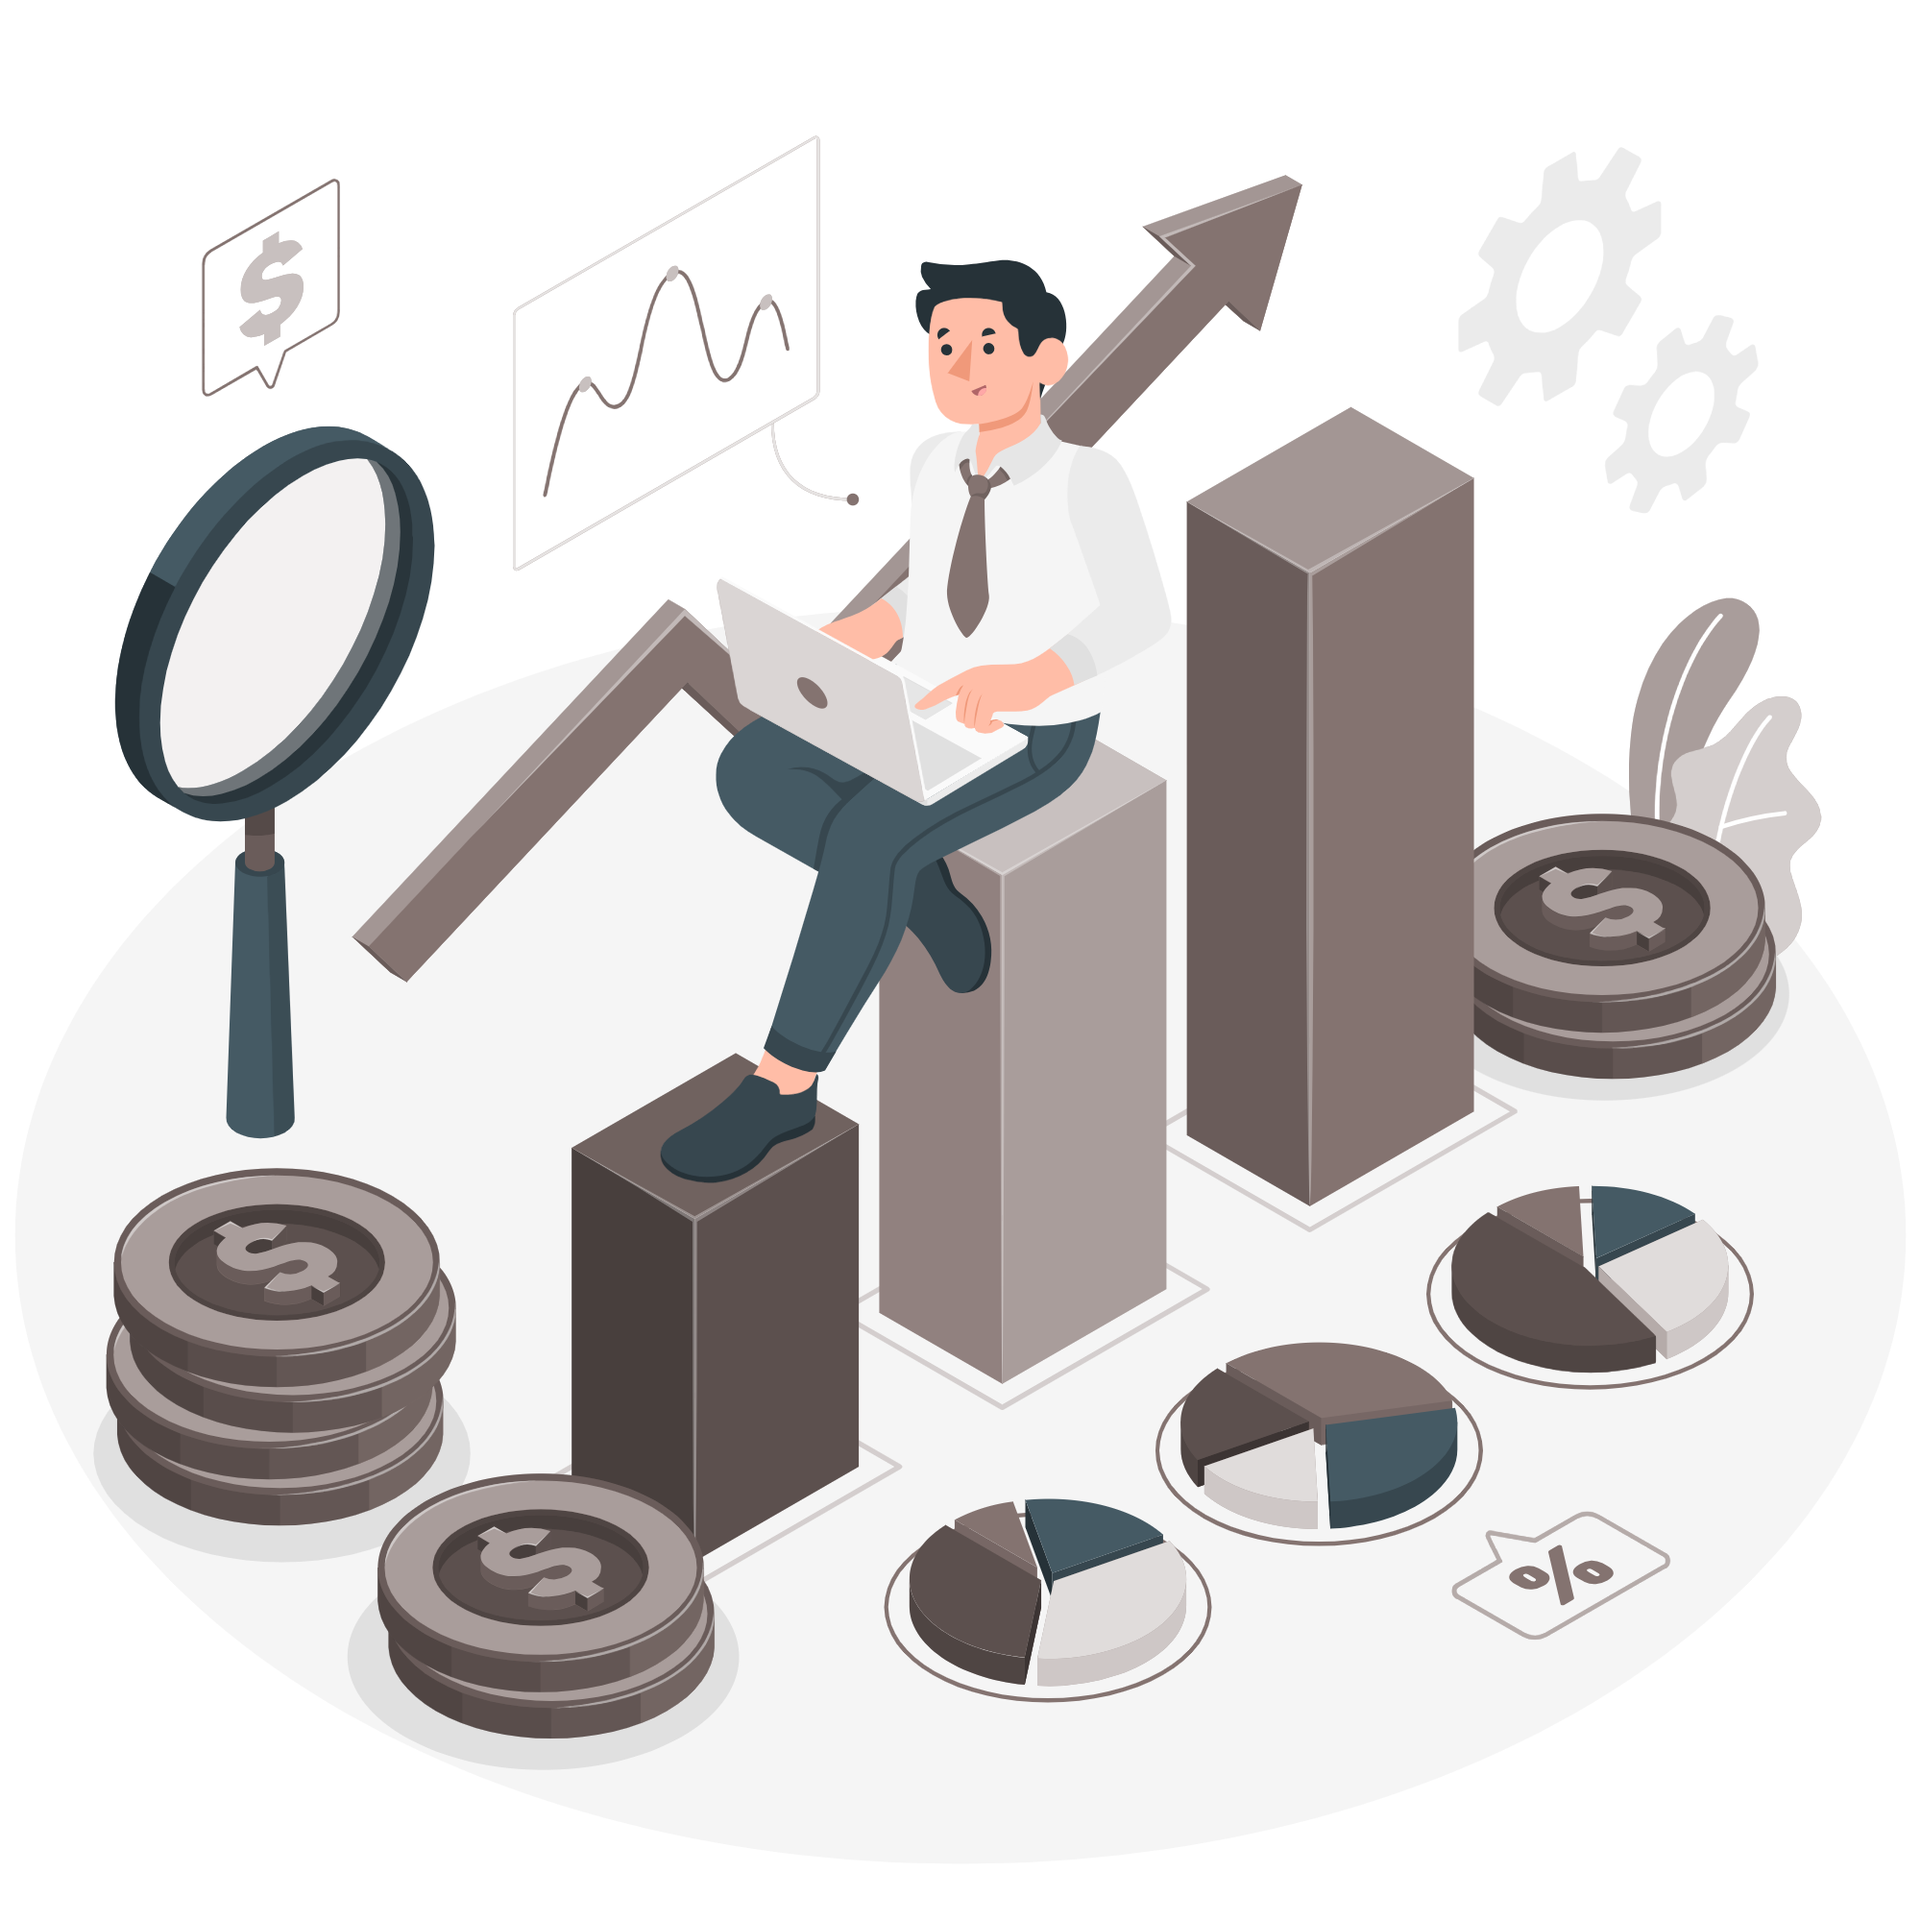
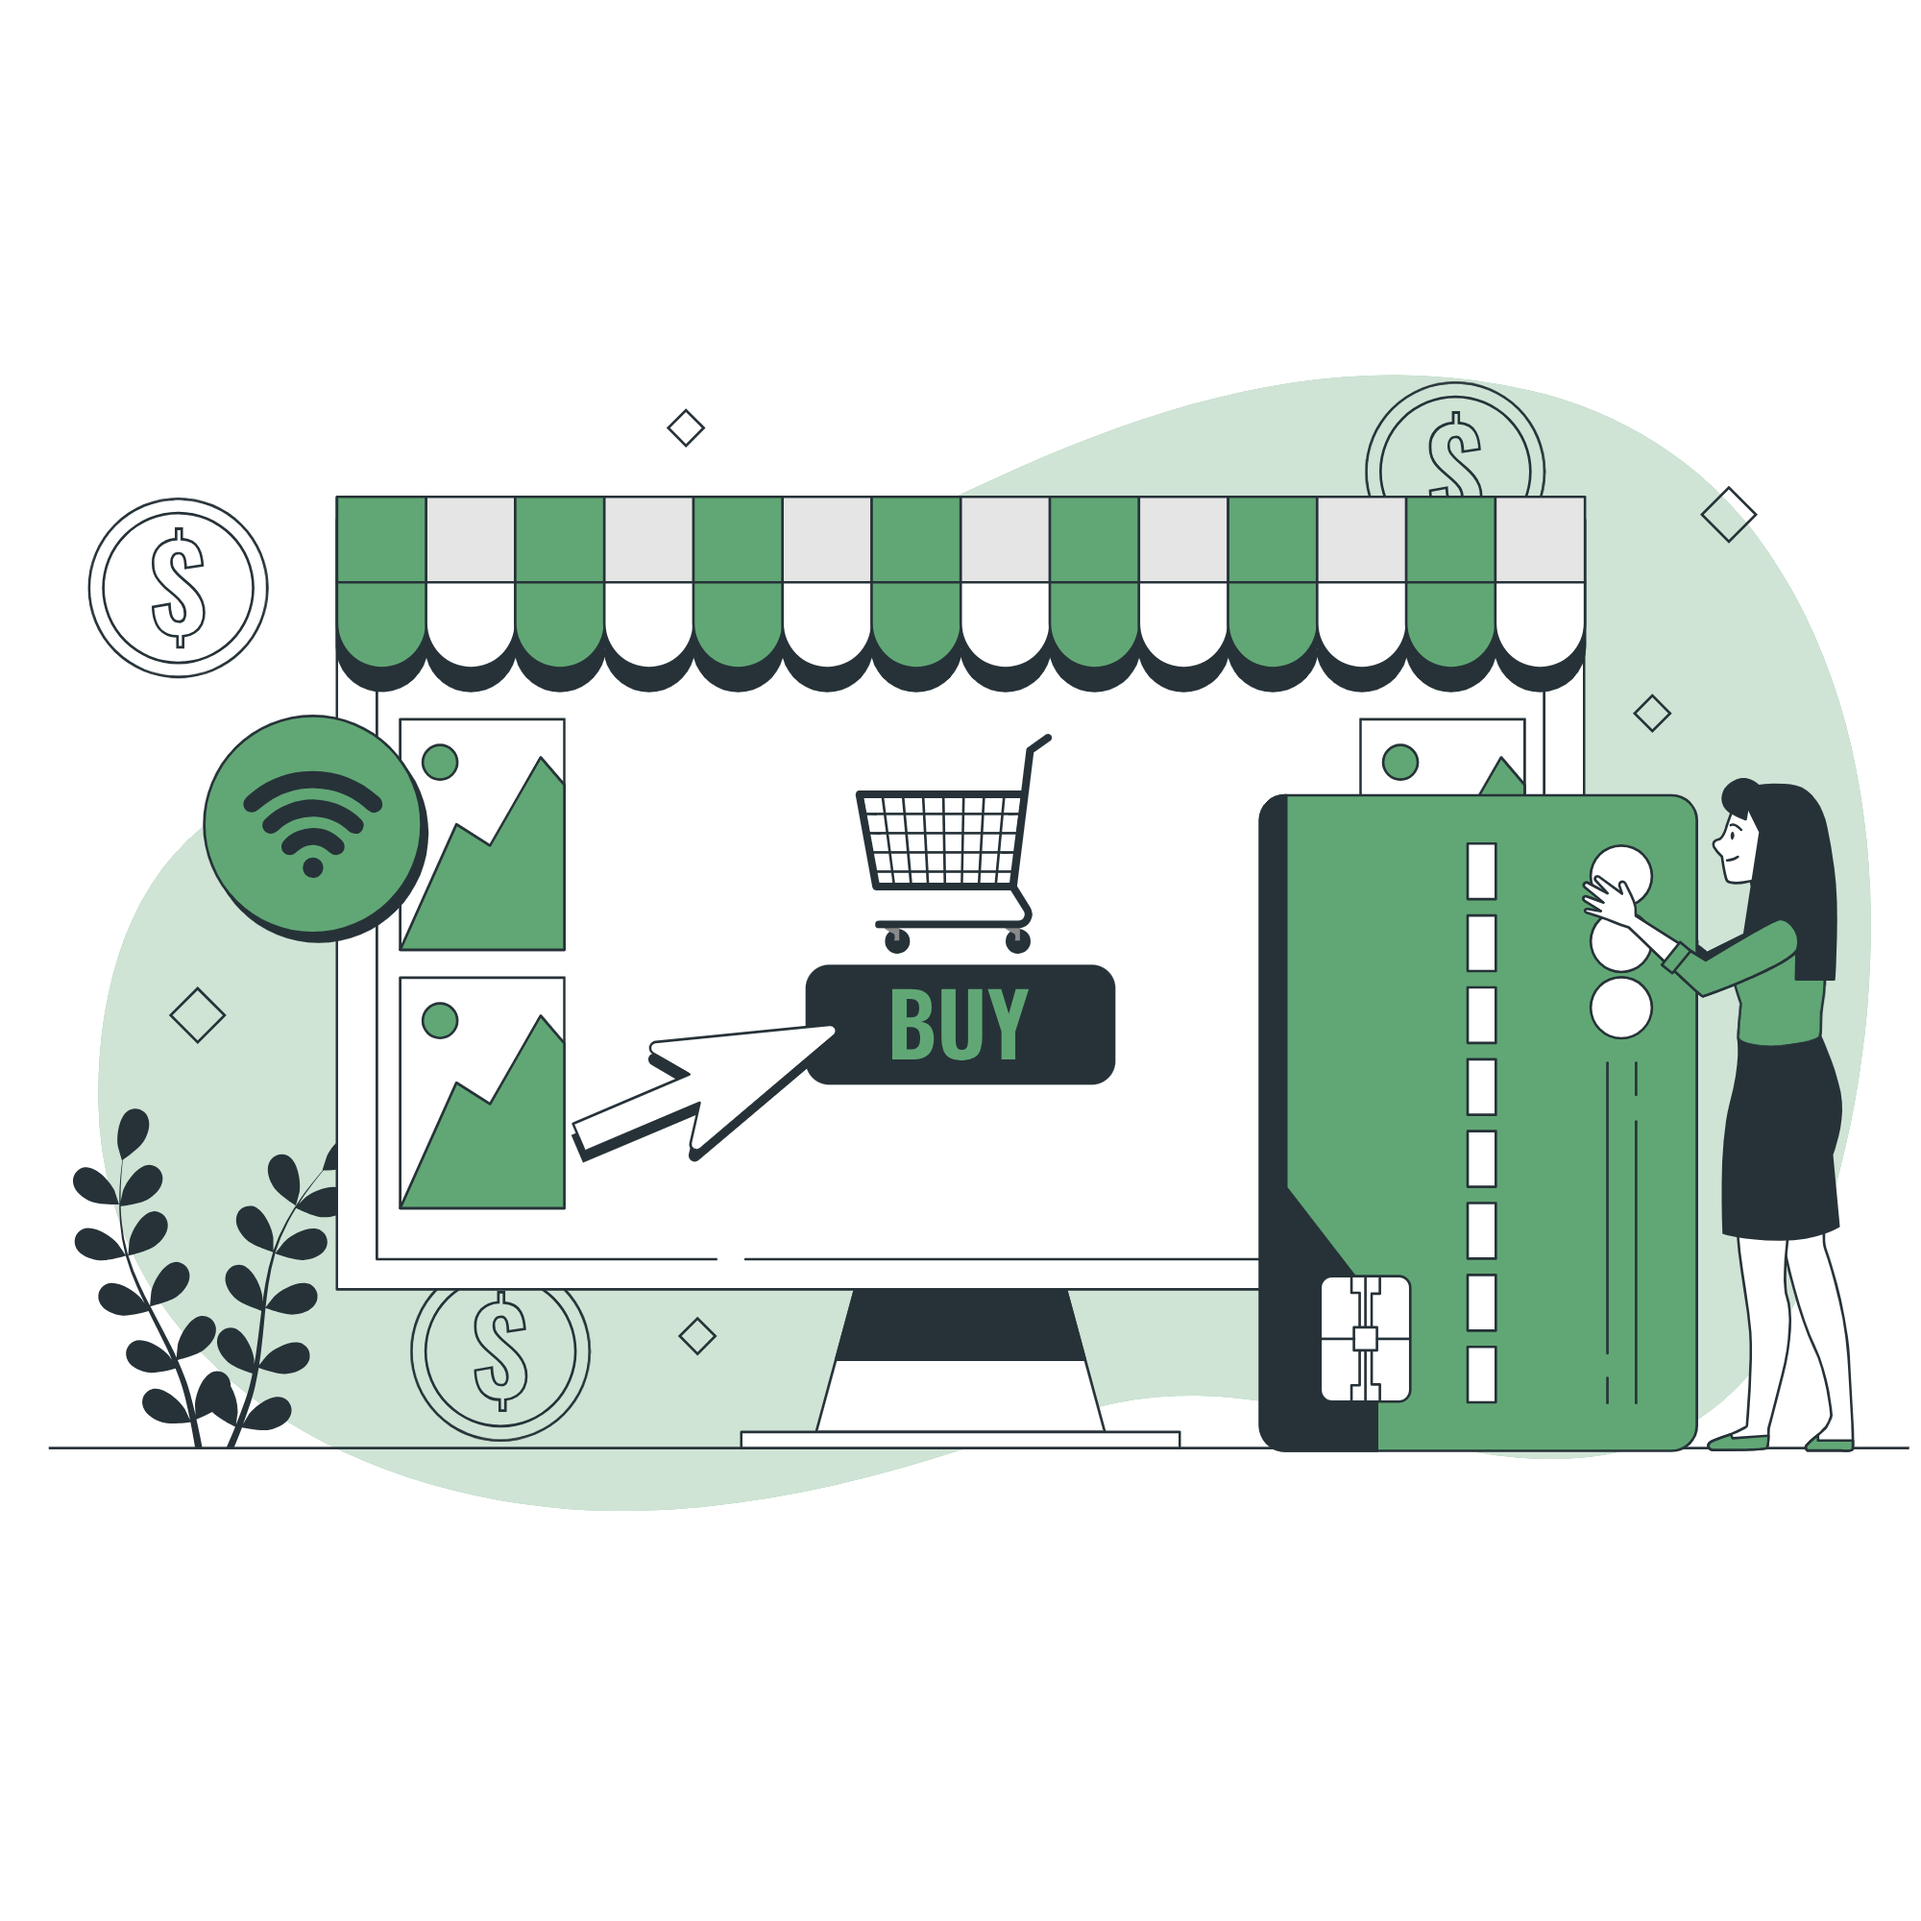
update: landing page image, login screen colors, and add eas.json

diff --git a/app/login.tsx b/app/login.tsx
@@ -270,7 +270,7 @@ const styles = StyleSheet.create({
   modalTitle: {
     fontSize: 18,
     fontWeight: "700",
-    color: "#4B2E2B",
+    color: "#337066",
     marginBottom: 8,
     textAlign: "center",
   },
@@ -282,7 +282,7 @@ const styles = StyleSheet.create({
     marginBottom: 20,
   },
   modalButton: {
-    backgroundColor: "#4B2E2B",
+    backgroundColor: "#337066",
     paddingVertical: 14,
     paddingHorizontal: 32,
     borderRadius: 999,
